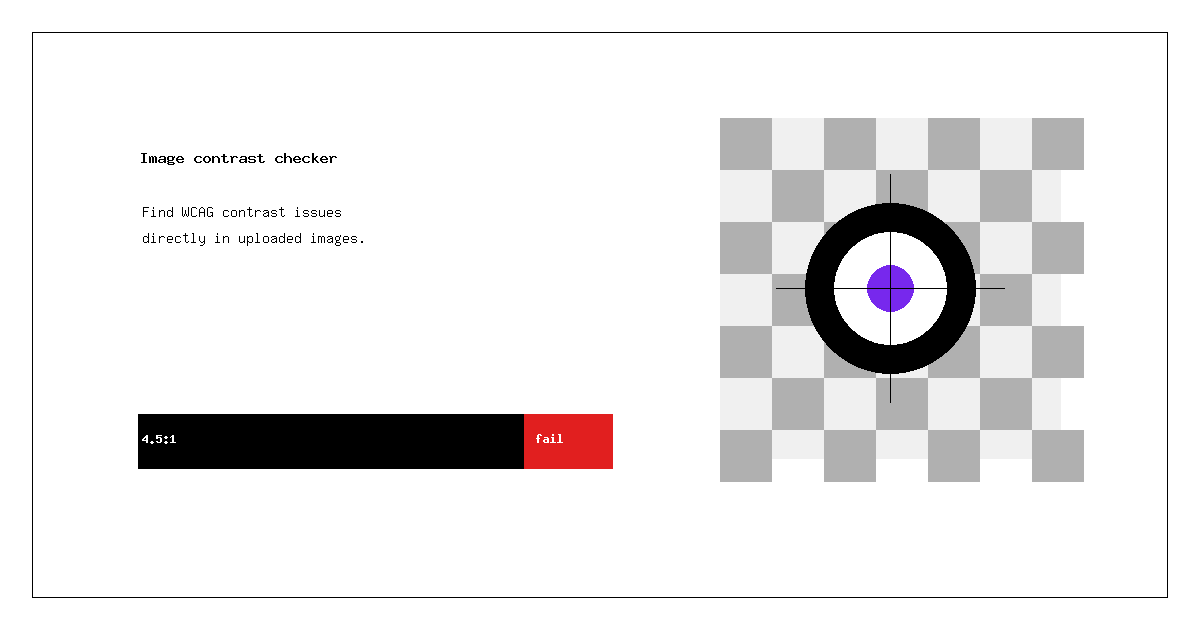
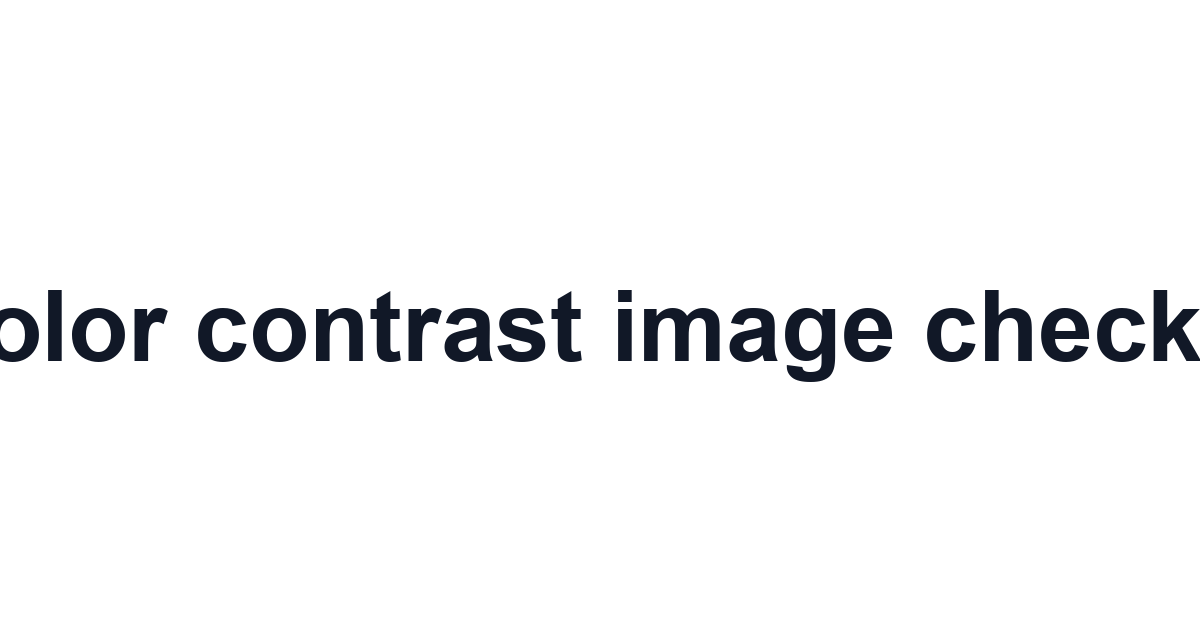
Simplify social card

diff --git a/scripts/generate-social-card.php b/scripts/generate-social-card.php
@@ -3,57 +3,48 @@
 $width = 1200;
 $height = 630;
 $output = __DIR__ . '/../app/img/social-card.png';
+$text = 'Color contrast image checker';
 
 $image = imagecreatetruecolor($width, $height);
 
 $white = imagecolorallocate($image, 255, 255, 255);
-$black = imagecolorallocate($image, 0, 0, 0);
-$gray = imagecolorallocate($image, 240, 240, 240);
-$midGray = imagecolorallocate($image, 176, 176, 176);
-$purple = imagecolorallocate($image, 119, 40, 237);
-$red = imagecolorallocate($image, 225, 31, 31);
+$black = imagecolorallocate($image, 17, 24, 39);
 
 imagefilledrectangle($image, 0, 0, $width, $height, $white);
 
-$tile = 52;
-$checkerX = 720;
-$checkerY = 118;
-$checkerW = 340;
-$checkerH = 340;
+$fontPaths = [
+	'/System/Library/Fonts/Supplemental/Arial Bold.ttf',
+	'/System/Library/Fonts/Supplemental/Arial.ttf',
+	'/usr/share/fonts/truetype/dejavu/DejaVuSans-Bold.ttf',
+	'/usr/share/fonts/truetype/liberation2/LiberationSans-Bold.ttf',
+];
 
-imagefilledrectangle($image, $checkerX, $checkerY, $checkerX + $checkerW, $checkerY + $checkerH, $gray);
-
-for ($y = $checkerY; $y < $checkerY + $checkerH; $y += $tile) {
-	for ($x = $checkerX; $x < $checkerX + $checkerW; $x += $tile) {
-		$column = intdiv($x - $checkerX, $tile);
-		$row = intdiv($y - $checkerY, $tile);
-
-		if (($column + $row) % 2 === 0) {
-			imagefilledrectangle($image, $x, $y, $x + $tile - 1, $y + $tile - 1, $midGray);
-		}
+$fontPath = null;
+foreach ($fontPaths as $candidate) {
+	if (is_readable($candidate)) {
+		$fontPath = $candidate;
+		break;
 	}
 }
 
-imagefilledellipse($image, 890, 288, 170, 170, $black);
-imagefilledellipse($image, 890, 288, 112, 112, $white);
-imagefilledellipse($image, 890, 288, 46, 46, $purple);
-imageline($image, 890, 174, 890, 402, $black);
-imageline($image, 776, 288, 1004, 288, $black);
+if ($fontPath && function_exists('imagettftext')) {
+	$fontSize = 74;
+	$box = imagettfbbox($fontSize, 0, $fontPath, $text);
+	$textWidth = $box[2] - $box[0];
+	$textHeight = $box[1] - $box[7];
+	$x = (int) (($width - $textWidth) / 2);
+	$y = (int) (($height + $textHeight) / 2);
 
-imagefilledrectangle($image, 138, 414, 524, 468, $black);
-imagefilledrectangle($image, 524, 414, 612, 468, $red);
+	imagettftext($image, $fontSize, 0, $x, $y, $black, $fontPath, $text);
+} else {
+	$font = 5;
+	$textWidth = imagefontwidth($font) * strlen($text);
+	$textHeight = imagefontheight($font);
+	$x = (int) (($width - $textWidth) / 2);
+	$y = (int) (($height - $textHeight) / 2);
 
-$fontLarge = 5;
-$fontMedium = 4;
-$fontSmall = 3;
-
-imagestring($image, $fontLarge, 140, 150, 'Image contrast checker', $black);
-imagestring($image, $fontMedium, 142, 204, 'Find WCAG contrast issues', $black);
-imagestring($image, $fontMedium, 142, 230, 'directly in uploaded images.', $black);
-imagestring($image, $fontSmall, 142, 432, '4.5:1', $white);
-imagestring($image, $fontSmall, 536, 432, 'fail', $white);
-
-imagerectangle($image, 32, 32, $width - 33, $height - 33, $black);
+	imagestring($image, $font, $x, $y, $text, $black);
+}
 
 imagepng($image, $output, 9);
 
